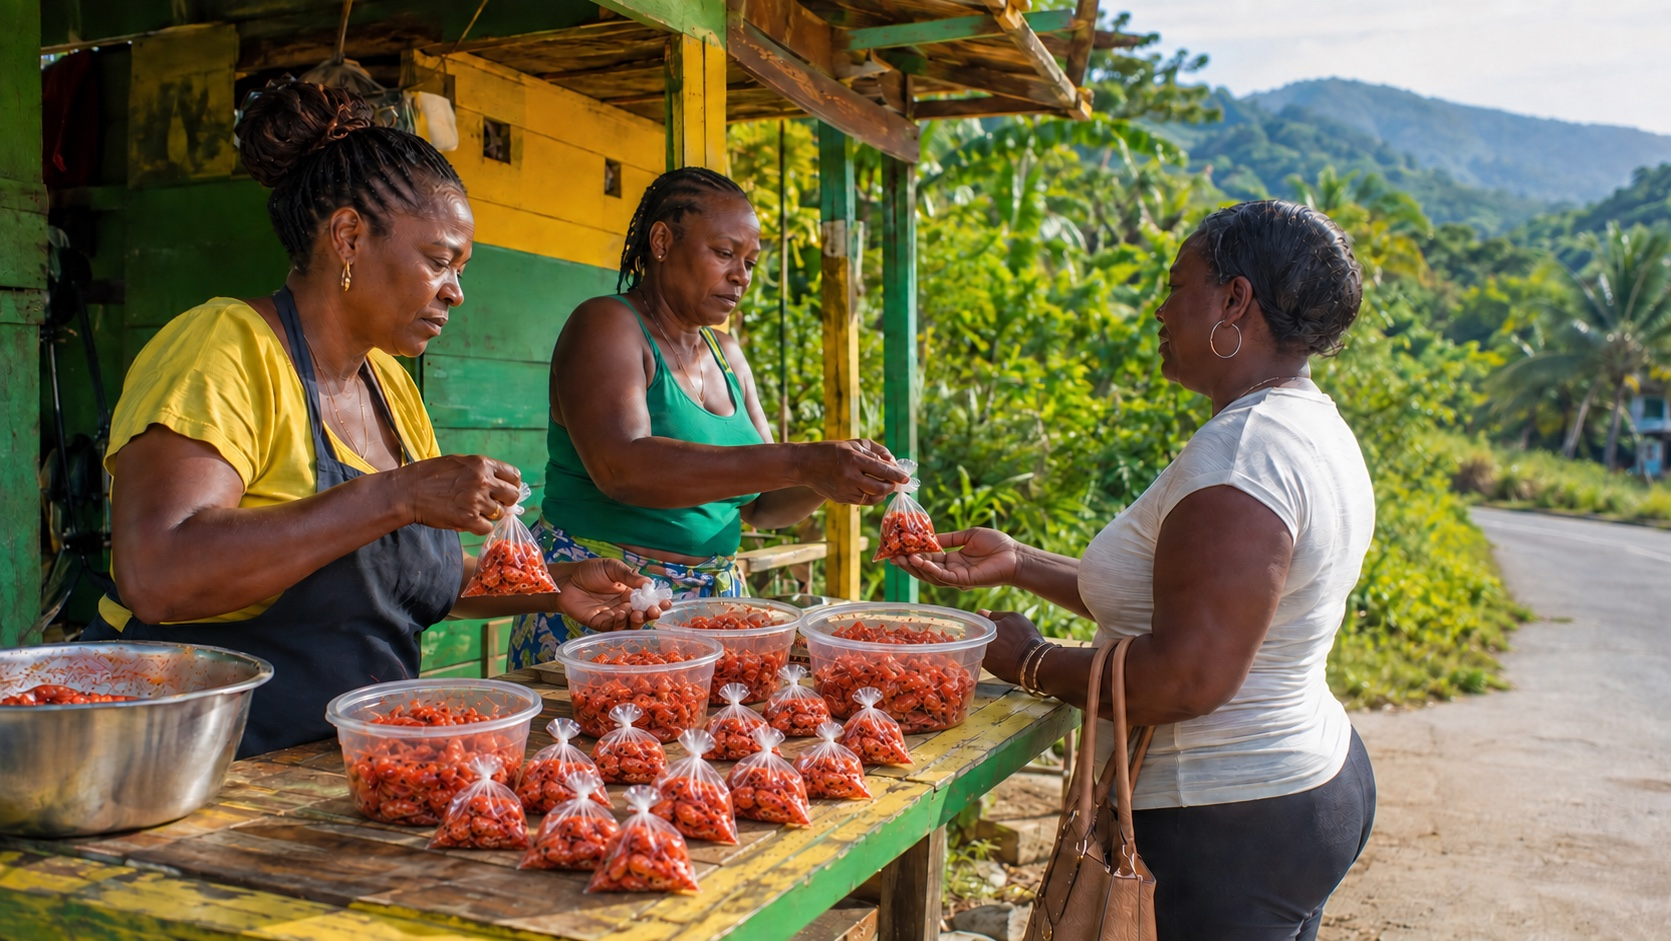
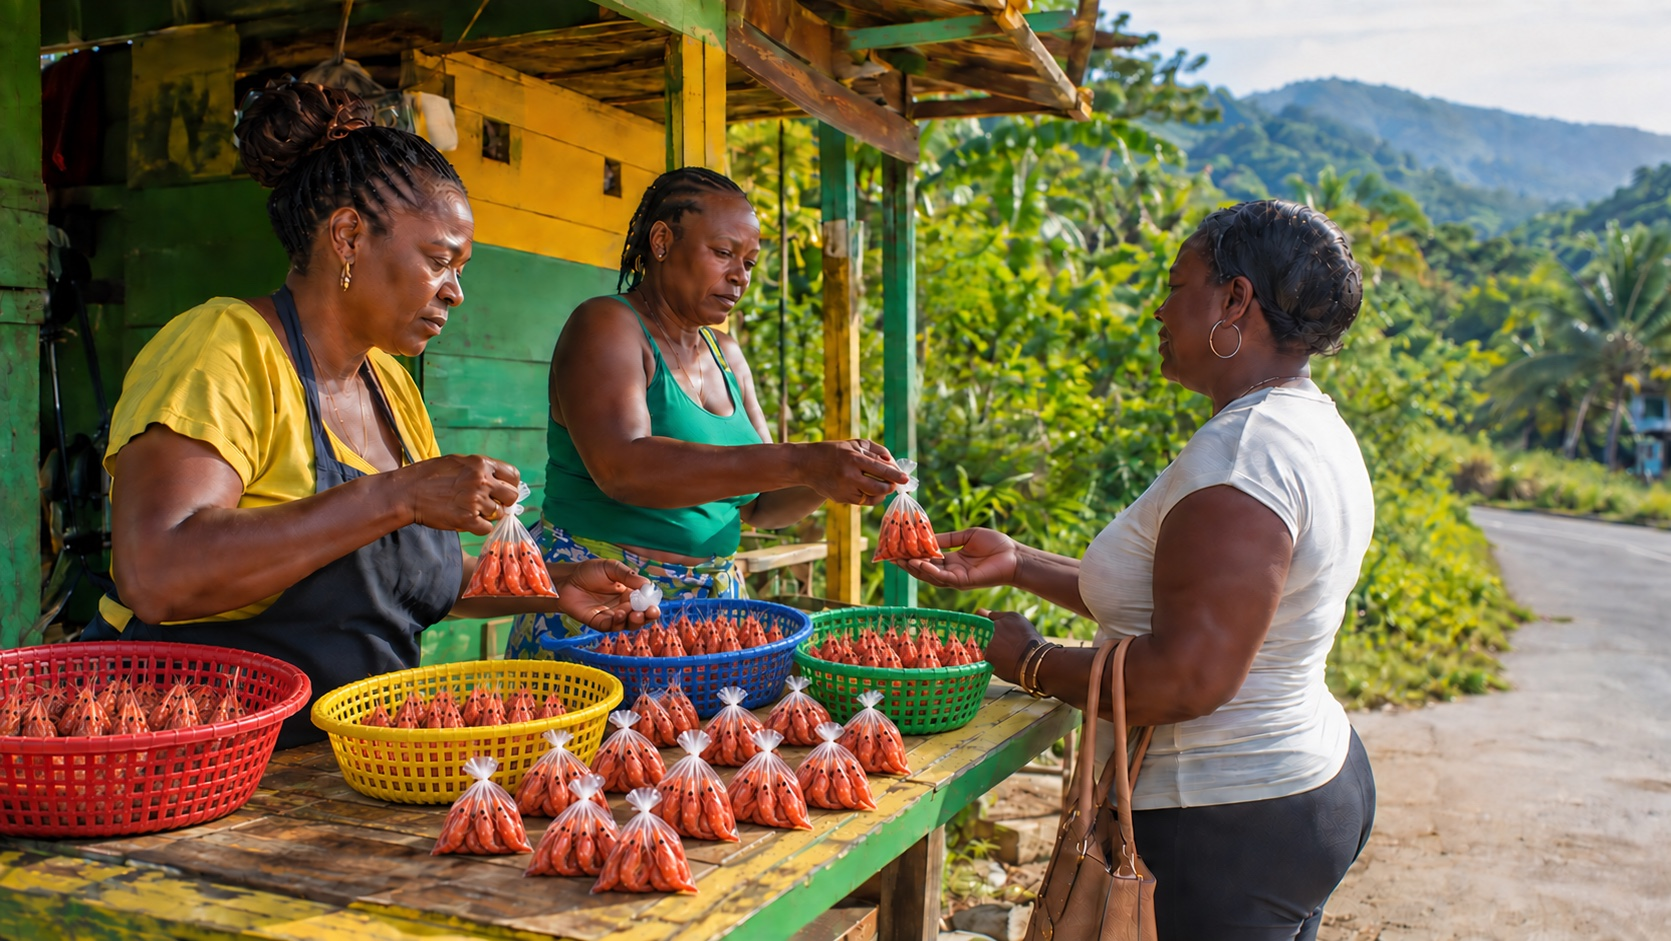
Replace tubs with roadside market baskets

diff --git a/app/page.tsx b/app/page.tsx
@@ -115,9 +115,9 @@ export default function Home() {
         <div className="story-photo">
           <img
             src="/images/middle-quarters-roadside-recreation.jpg"
-            alt="Artistic recreation of Jamaican roadside vendors serving small bags of head-on pepper shrimp to a customer"
+            alt="Jamaican roadside vendors serving small bags of head-on pepper shrimp to a customer"
           />
-          <span>Roadside tradition · artistic recreation</span>
+          <span>Middle Quarters roadside tradition</span>
         </div>
         <div className="story-copy">
           <p className="eyebrow">Straight from the source</p>
